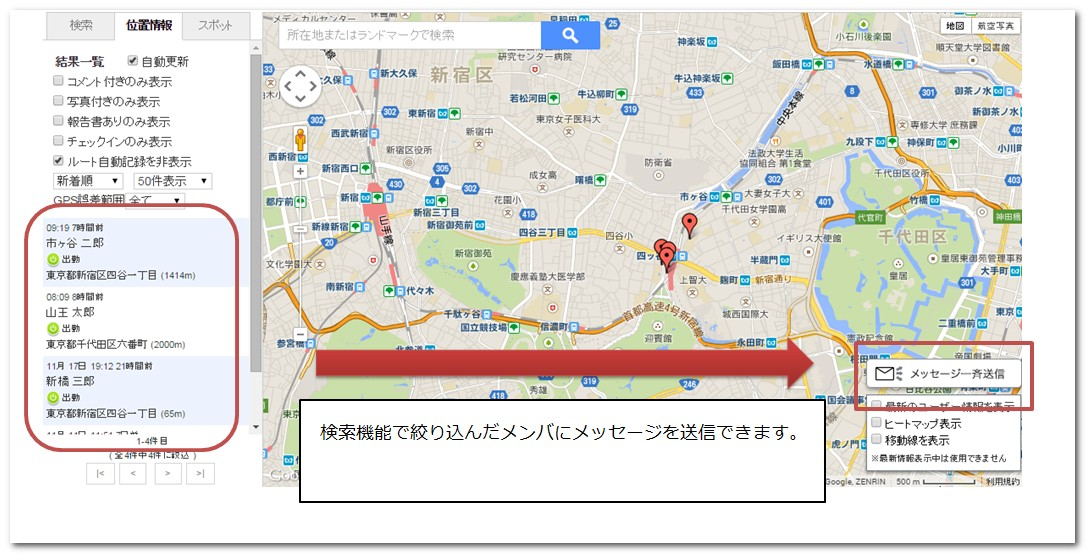
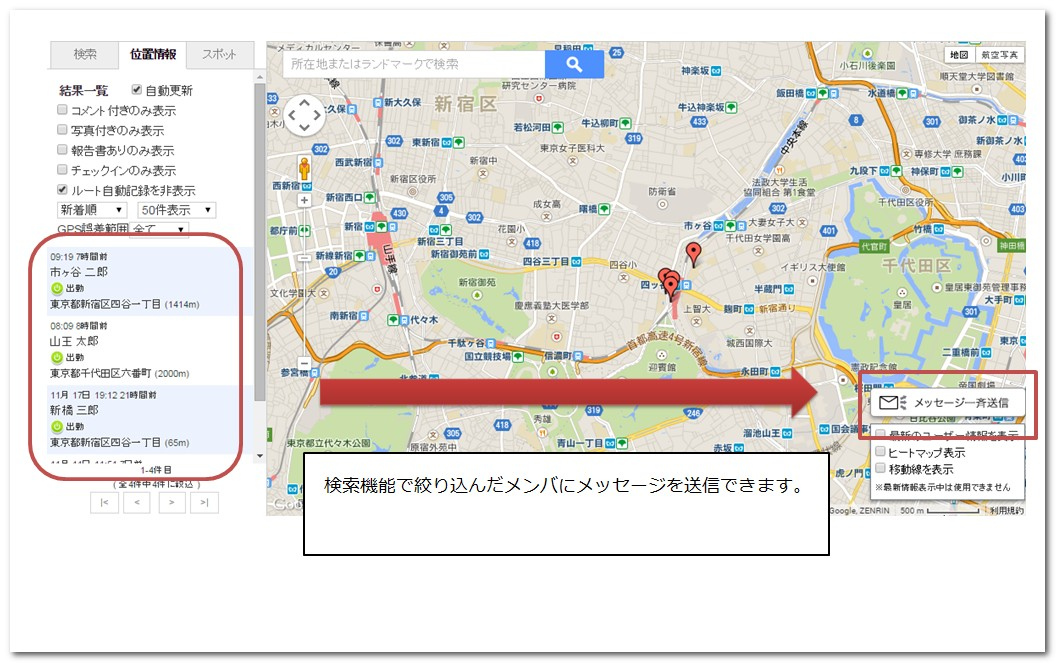
Fixed some issues.

diff --git a/searchindex.js b/searchindex.js
@@ -1,1 +1,1 @@
-Search.setIndex({envversion:42,terms:{"\u53cd\u6620":[4,2],"\u51fa\u6765":2,"\u306b\u304a\u3044\u3066":4,"\u30a2\u30af\u30c6\u30a3\u30d6":0,"\u6761\u4ef6":[4,2],"\u3067\u3057":4,"\u7aef\u672b":[0,2,3],"\u53d7\u4fe1":2,"\u901a\u4fe1":[2,3],"\u4e00\u822c":[2,3],"\u30aa\u30ec\u30f3\u30b8":4,"\u524a\u9664":[4,2,3],"\u3067\u304d":[0,4,2,3],"\u5e0c\u671b":0,"\u6700\u7d42":3,"\u524a\u6e1b":2,"\u73fe\u5834":0,"\u77e2\u5370":2,"\u4e0d\u8db3":3,"\u4f11\u61a9":0,"\u30a4\u30f3\u30b9\u30c8\u30fc\u30eb":2,"\u72b6\u6cc1":3,"\u30aa\u30d5\u30e9\u30a4\u30f3":3,"\u30f6\u6708":3,"\u30e1\u30cb\u30e5\u30fc":[2,3],"\u304a\u3088\u3073":[4,3],"\u5909\u308f\u308a":4,"->":0,"\u30aa\u30d7\u30b7\u30e7\u30f3":4,"\u5e83\u544a":3,"\u30d6\u30e9\u30a6\u30b6":3,"\u89e3\u9664":[4,2],"\u7b87\u6240":3,"\u5909\u308f\u3063":0,"\u5207\u308a\u66ff\u308f\u3089":2,"\u7d4c\u904e":[4,3],"\u30bf\u30d6":[4,2],"\u6700\u65b0":[4,2],"\u8a2a\u554f":4,"new":4,"\u305d\u306e\u4ed6":2,"\u304a\u4f1d\u3048":4,"\u521d\u56de":2,punch:0,"\u30bf\u30b0":[4,2],"\u30de\u30eb\u30c1":[0,2,3],"\u30db\u30fc\u30e0":2,"\u30a2\u30ab\u30a6\u30f3\u30c8":[0,2,3],"\u5f37\u5236":2,"\u30b9\u30dd\u30c3\u30c8\u30a4\u30f3\u30dd\u30fc\u30c8":4,"\u4e00\u62ec":4,"\u30c1\u30a7\u30c3\u30af\u30dc\u30c3\u30af\u30b9\u30fb\u30e9\u30b8\u30aa\u30dc\u30bf\u30f3":2,"\u3067\u3082":[4,3],"\u64ec\u4f3c":2,"\u5411\u4e0a":3,"\u8d85\u3048":4,app:3,"\u30c7\u30b6\u30a4\u30f3":[4,3],"\u3057\u307e\u3063":2,"\u30ed\u30b1\u30fc\u30b7\u30e7\u30f3":2,"\u30de\u30c3\u30d7":2,"\u9001\u4fe1":[4,2,3],"\u30a2\u30cb\u30e1\u30fc\u30b7\u30e7\u30f3":2,"\u30b9\u30dd\u30c3\u30c8":[0,2,3],"\u9023\u7d9a":3,"\u3057\u307e\u3046":[2,3],iphone:3,"\u30ab\u30b9\u30bf\u30de\u30fc\u30b5\u30fc\u30d3\u30b9":4,"\u60c5\u5831":[0,2,3],"\u30c6\u30ad\u30b9\u30c8":2,"\u3060\u3063":2,"\u3059\u308b":[0,4,2,3],"\u306a\u308a":[4,2,3],"\u30c1\u30e5\u30fc\u30cb\u30f3\u30b0":3,"\u843d\u3061\u308b":2,"\u304a\u77e5\u3089\u305b":[4,2],"\u3053\u3068":[0,4],"\u3053\u306e":2,"\u30d5\u30c3\u30bf\u30fc":4,"\u4ed5\u69d8":3,"\u6709\u52b9":2,"\u62bc\u3055":0,"\u4ee5\u4e0b":3,"\u4ee5\u4e0a":3,"\u30a2\u30a4\u30b3\u30f3":2,"\u884c\u308f":2,"\u8d77\u52d5":[2,3],"\u3060\u3051":[0,2],"\u7de8\u96c6":[4,2,3],"\u4e00\u90e8":[4,2,3],"\u30d1\u30d5\u30a9\u30fc\u30de\u30f3\u30b9":3,"\u30ab\u30ca":4,"\u3069\u306e":[0,4],"\u30d4\u30f3":2,"\u30af\u30e9\u30c3\u30b7\u30e5":[2,3],"\u30c9\u30c3\u30c8":2,"\u304f\u3060\u3055\u3044":0,"\u5897\u3084\u3057":2,"\u4e00\u5b9a":[0,4],"\u3059\u3050":2,"\u30d0\u30fc\u30b8\u30e7\u30f3\u30a2\u30c3\u30d7":[2,3],"\u884c\u3046":2,"\u884c\u3044":4,"\u95a2\u9023":2,"\u30d5\u30a3\u30fc\u30eb\u30c9":2,"\u3053\u308c":4,"\u7121\u6599":2,"\u5185\u5bb9":2,csv:4,"\u7d42\u4e86":[0,2],":`":3,"\u62d2\u5426":2,"\u6642\u9593":[0,4,3],"\u4e0b\u3055\u3044":4,"\u30cf\u30a4\u30d5\u30f3":2,"\u8a2d\u5b9a":[0,2,3],"\u610f\u898b":4,"\u81ea\u52d5":[0,4,2,3],"\u30c1\u30a7\u30c3\u30af\u30a4\u30f3":2,"\u901a\u5e38":[0,2],"\u4e88\u5b9a":[2,3],"\u81ea\u793e":[0,4,2,3],"\u30dc\u30c3\u30af\u30b9":2,"\u82f1\u8a9e":2,"\u6d88\u8cbb":0,"20":[4,3],"\u30bf\u30a4\u30e0":2,"\u30b8\u30aa\u30b3\u30fc\u30c7\u30a3\u30f3\u30b0":2,"\u308c\u308b":[4,2,3],"\u70b9\u7dda":3,"\u540c\u671f":[2,3],"\u52d5\u4f5c":0,"\u30d5\u30a3\u30fc\u30c1\u30e3\u30fc":2,"\u5897\u3048":4,"\u6271\u3044":2,googlemaps:[2,3],"\u9032\u884c":[0,2],"\u53c2\u52a0":2,"\u7dcf\u79f0":0,term:3,"\u4e00\u3064":2,"\u66f4\u65b0":[2,3],"\u597d\u304d":0,"\u30ec\u30d9\u30eb":2,"\u767b\u9332":[4,3],"\u4e26\u3073":4,"\u30d5\u30a9\u30c8":3,"\u30e9\u30d9\u30eb":4,"\u4ee5\u964d":3,"\u753b\u9762":[0,4,2,3],ex:0,"\u30c8\u30e9\u30c3\u30ad\u30f3\u30b0":2,"\u30be\u30fc\u30f3":2,"\u3042\u3044\u307e\u3044":4,"\u7def\u5ea6":4,"\u8a73\u7d30":[4,2,3],"\u5b58\u5728":[2,3],"\u30b7\u30e7\u30fc\u30c8\u30ab\u30c3\u30c8":2,"\u4eba\u6570":2,"\u305f\u3081":[4,2],"\u30b7\u30e3\u30f3\u30d1\u30f3":2,"\u30b3\u30fc\u30c9":4,"\u9000\u52e4":0,"\u8a31\u5bb9":4,googlemapsapi:4,"\u53e4\u3044":2,"\u30ab\u30e1\u30e9\u30a2\u30a4\u30b3\u30f3":2,"\u4e92\u63db":3,"\u53ef\u80fd":[0,4,2,3],"\u30b5\u30a4\u30c8":[0,1],nodata:2,"\u30eb\u30fc\u30c8":[0,4,2,3],"1000":2,"\u30d6\u30eb\u30fc":2,"\u52d5\u304b\u3057":2,"\u30dd\u30fc\u30c8":4,"\u30ed\u30b0\u30a2\u30a6\u30c8":2,"\u304a\u5ba2\u69d8":[0,4],"\u78ba\u8a8d":[2,3],"\u30b5\u30dd\u30fc\u30c8":0,"\u4fee\u6b63":[2,3],"\u884c\u52d5":[0,4,3],"\u30b7\u30f3\u30b0\u30eb\u30b3\u30fc\u30c6\u30fc\u30b7\u30e7\u30f3":4,"\u8aad\u307f\u8fbc\u3081":3,"\u7d5e\u308a\u8fbc\u307f":2,gps:[0,2],"\u3044\u308b":[0,4,2,3],"\u6291\u3048":0,"\u30a2\u30a4\u30c6\u30e0":2,"\u305d\u306e\u5f8c":2,ipad:3,"15":4,"\u898b\u308b":4,"\u9593\u9694":[0,2],"\u8a18\u9332":[0,4,2,3],"\u7d50\u3070":0,"\u30a8\u30e9\u30fc":[4,3],"\u30c8\u30c3\u30d7\u30da\u30fc\u30b8":4,"\u5834\u5408":[0,4,2,3],"\u30ea\u30b9\u30c8":[4,2],"\u307e\u3067":[0,4],"\u307e\u3059":[0,4,2,3],"\u307e\u305b":[0,4,3],"\u4e00\u89a7":[2,3],"\u307e\u305f":4,"\u304b\u3089":[4,2,3],"\u307e\u3057":[4,2,3],"\u7279\u5b9a":[0,2],"\u307e\u3068\u3081":4,"\u9078\u629e":[0,4,2,3],"\u8aad\u307f\u8fbc\u307f":[2,3],"\u51fa\u529b":4,"\u6a5f\u80fd":[0,4,2,3],"\u30a2\u30c3\u30d7\u30c7\u30fc\u30c8":3,"\u9867\u5ba2":[0,4,3],"\u5408\u308f\u305b":0,"\u5f53\u65e5":4,"\u30b5\u30fc\u30d0\u30fc":2,url:[2,3],km:2,"\u30a8\u30e9\u30fc\u30e1\u30c3\u30bb\u30fc\u30b8":2,"\u64ae\u5f71":2,"\u30b5\u30fc\u30d0":3,"\u4f01\u696d":[0,2],"\u30ab\u30e1\u30e9":2,"\u3057\u304b":[0,2],"\u4ef6\u6570":4,"\u8ffd\u52a0":[0,4,2,3],"\u5bfe\u8c61":4,"\u5206\u3051":2,"\u30a4\u30f3":4,"\u3082\u3057\u304f\u306f":4,"\u7d0d\u54c1":0,"\u6700\u5927":3,"\u65e5\u6642":4,"\u306a\u3089":[4,2],"\u51e6\u7406":[4,2,3],"\u306a\u308b":2,"\u65b9\u6cd5":[4,2],"\u30ea\u30ea\u30fc\u30b9":2,"\u5206\u304b\u308a":4,"\u5206\u304b\u308b":4,"\u5730\u56f3":[4,2],"\u3055\u3089\u306b":4,"\u672a\u8aad":2,"\u8868\u3059":4,"\u5439\u304d\u51fa\u3057":4,"\u62c5\u5f53":[0,4,2,3],"\u4e0d\u8981":3,"\u7121\u3044":3,"\u30ed\u30b8\u30c3\u30af":2,"\u6c7a\u3081":0,"\u7d50\u679c":[4,2],"\u7121\u3057":2,"\u623b\u308b":2,"\u64cd\u4f5c":4,"\u524d\u56de":3,"\u8ecc\u8de1":0,"\u30ba\u30fc\u30e0":2,"\u5e83\u3052":4,"\u65b0\u898f":3,"\u5f93\u6765":0,"\u7d39\u4ecb":2,"\u7ba1\u7406":[0,1,2,3],"\u30b9\u30bf\u30c3\u30d5":0,"\u65e5\u4ed8":4,"\u30ed\u30b0\u30a4\u30f3":2,"\u7bc4\u56f2":[4,2],"\u30c0\u30a4\u30a2\u30ed\u30b0":2,"\u914d\u616e":4,"\u50ac\u4fc3":2,"\u4f4d\u7f6e":[0,2],"\u3057\u3088":[4,2],"\u904e\u53bb":4,"\u306a\u3069":0,"\u534a\u5f84":2,"\u696d\u52d9":[0,4],"\u306a\u3063":[0,4,2],"\u5206\u5272":4,"\u4e00\u76ee":4,"\u306a\u304f":[0,2],"\u306a\u304a":4,"\u306a\u3044":[0,4,2,3],"\u628a\u63e1":0,"\u540c\u69d8":4,"\u30d5\u30a9\u30eb\u30c0":4,"\u4eca\u56de":[4,3],"\u5931\u6557":2,"\u533a\u5225":4,"\u4fdd\u5b58":2,"\u62bd\u51fa":4,"\u5207\u308a\u66ff\u3048\u308b":2,"\u4ee5\u524d":2,"\u306b\u5bfe\u3057\u3066":2,"\u5207\u308a\u66ff\u3048":2,"\u30ec\u30a4\u30a2\u30a6\u30c8":[4,2,3],"\u3068\u3044\u3046":2,"\u7e2e\u5c3a":3,"\u95b2\u89a7":[2,3],"\u753b\u50cf":2,"500":2,"\u30d1\u30b9\u30ef\u30fc\u30c9":2,"\u30d5\u30a9\u30fc\u30de\u30c3\u30c8":2,applemap:3,"\u4fdd\u6301":2,"\u8981\u671b":4,"\u9077\u79fb":[2,3],"\u554f\u984c":[4,2,3],"\u6a29\u9650":[2,3],"\u6700\u9069":2,"\u30bf\u30c3\u30d7":2,"\u4f4f\u6240":[4,2,3],"\u5236\u9650":3,"\u691c\u7d22":[4,2],"\u5165\u529b":[4,2,3],"\u30e9\u30a4\u30d6\u30e9\u30ea":3,"\u540c\u3058":[2,3],"\u5199\u771f":[4,2,3],"\u51fa\u52e4":[0,3],"\u5fc5\u8981":[4,2],"\u30aa\u30f3":[0,2],googlemapssdk:3,"\u53d6\u5f97":[4,2],"\u30bf\u30a4\u30df\u30f3\u30b0":[0,3],"\u5c65\u6b74":[2,3],"\u52b9\u304b":3,"\u30aa\u30d5":2,"\u5951\u7d04":4,"\u30a2\u30d7\u30ea":[0,2],"\u4e0d\u5177\u5408":[2,3],"\u3069\u3046":0,"\u5b89\u5b9a":3,"\u30e2\u30fc\u30c9":[0,2,3],ios:[1,2],"\u306b\u3088\u308a":4,"000":4,"\u7d4c\u7531":3,"\u5834\u6240":2,"\u7167\u6e96":2,"\u201d&\u201d":3,"\u305d\u3057\u3066":2,"\u30b9\u30bf\u30a4\u30eb":2,"\u7d10\u4ed8":2,"\u30b0\u30eb\u30fc\u30d7":[4,2,3],"\u3084\u3059\u304f":4,"\u30b1\u30fc\u30b9":4,"\u3084\u3059\u3044":4,"\u8868\u793a":[0,4,2,3],"\u30b9\u30c6\u30fc\u30bf\u30b9":[0,4,2,3],"\u30ab\u30e9\u30fc":4,"\u5229\u7528":[4,3],"\u30e9\u30b8\u30aa\u30dc\u30bf\u30f3\u30d5\u30a3\u30fc\u30eb\u30c9":2,"\u6271\u3048":4,"\u8efd\u5fae":[4,2],"\u3067\u304d\u308b":[0,4,2,3],web:2,"\u4f5c\u6210":[4,2,3],"\u958b\u59cb":0,"\u30bd\u30fc\u30c8":[4,3],"\u3067\u3059":[0,4],"\u30ad\u30fc":2,"\u521d\u671f":[0,2],"\u7d4c\u5ea6":4,"\u542b\u3081":2,"\u307e\u305f\u306f":2,"\u9001\u3089":2,"\u30c7\u30d0\u30a4\u30b9\u30c8\u30fc\u30af\u30f3":3,"\u30d0\u30ca\u30fc":4,"\u30d0\u30c3\u30b8":2,"\u5dee\u3057\u66ff\u3048":2,"\u30d0\u30c3\u30af":2,"\u6b63\u3057\u304f":[4,2,3],"\u4ee5\u5916":3,"\u30c7\u30d5\u30a9\u30eb\u30c8":2,"\u306a\u304b\u3063":[4,2],"\u6975\u529b":4,"\u30b7\u30b9\u30c6\u30e0":4,"\u904b\u55b6":4,"\u4f7f\u7528":[2,3],"\u5e83\u304c\u308b":4,"\u5927\u304d\u304f":2,"\u8a73\u3057\u304f":4,"\u30d0\u30c3\u30af\u30b0\u30e9\u30a6\u30f3\u30c9":3,"\u30dc\u30bf\u30f3":[0,2],"\u542b\u307e":2,"\u6587\u5b57\u6570":2,"\u5b8c\u4e86":2,"\u30d0\u30b0":4,"\u55b6\u696d":4,"\u3042\u308a":[4,3],"\u3042\u308b":[2,3],"\u6b63\u78ba":4,"\u6d88\u3048":2,"\u30b5\u30fc\u30d3\u30b9":2,"\u6587\u8a00":[0,2],"\u30e1\u30f3\u30d0\u30fc":[0,4,2,3],"\u307b\u307c":3,"\u6319\u52d5":[4,2],"\u9055\u3063":2,"\u30c1\u30a7\u30c3\u30af":[4,2],"\u30e6\u30fc\u30b6\u30fc":[0,4,2,3],"\u6b63\u3057\u3044":2,"\u5e30\u3063":4,plus:3,"\u70b9\u691c":0,"\u30e1\u30e2\u30ea":3,"\u6570\u5b57":2,"\u8abf\u6574":[2,3],"\u898b\u308c\u308b":2,"\u3088\u308a":[4,2,3],"\u5831\u544a":[0,2,3],"\u554f\u3044\u5408\u308f\u305b":[0,4],"\u9805\u76ee":[4,3],"\u8907\u6570":[0,4,2],"\u7a2e\u5225":[4,3],"\u30d0\u30fc\u30b8\u30e7\u30f3":[2,3],"\u53ce\u307e\u308b":4,"\u30d5\u30ea\u30fc\u30ba":2,"\u901f\u5ea6":4,"\u62bc\u4e0b":2,"\u30a2\u30e9\u30fc\u30c8":3,"\u73fe\u5728":[4,2,3],"\u5165\u308c":4,"\u30e1\u30f3\u30d0":4,"\u79fb\u52d5":[0,4,2],ui:3,"\u8aad\u8fbc":2,"\u30e1\u30c3\u30bb\u30fc\u30b8":[4,2],"\u5916\u3057":4,"\u8abf\u3079\u308b":4,"\u5165\u3063":4,"\u3054\u3068":4,"\u306b\u95a2\u3057\u3066":4,"\u30de\u30fc\u30af":2,"\u5f0a\u793e":[0,4],"\u53c2\u7167":[4,2,3],"\u7570\u306a\u308b":2,"\u7570\u306a\u308a":0,"\u4f1a\u793e":4,"\u30cd\u30c3\u30c8\u30ef\u30fc\u30af":2,"\u306e\u307f":[0,4,2],"\u544a\u77e5":4,"\u9078\u629e\u80a2":4,"\u30c7\u30fc\u30bf":[2,3],"\u3044\u305f\u3060\u3044":4,"\u4e0a\u9650":2,"\u30d5\u30a9\u30fc\u30ab\u30b9":2,"\u65b0\u3057\u3044":2,"\u304f\u308b":4,"\u3088\u3046":[0,4,2,3],"\u30aa\u30fc\u30d0\u30fc":2,"\u30de\u30fc\u30ab\u30fc":2},objtypes:{},objnames:{},filenames:["glossary","index","android","ios","web"],titles:["\u7528\u8a9e\u96c6","\u30ea\u30ea\u30fc\u30b9\u30ce\u30fc\u30c8","Android","iOS","\u7ba1\u7406\u30b5\u30a4\u30c8"],objects:{},titleterms:{"\u4e88\u5b9a":4,"09":3,"\u30ce\u30fc\u30c8":1,"\u6539\u5584":[2,3],"\u5168\u822c":4,"\u5831\u544a":4,"24":4,"27":4,ver:[4,2,3],"\u4e00\u89a7":4,"\u7ba1\u7406":4,"\u901a\u77e5":4,"08":2,"\u4fee\u6b63":4,"\u5909\u66f4":[4,2,3],"\u30b9\u30dd\u30c3\u30c8":4,"\u95b2\u89a7":4,"2014":[4,2,3],android:2,"\u4e0d\u5177\u5408":4,"\u60c5\u5831":4,"\u30ea\u30ea\u30fc\u30b9":[1,4],"\u30d5\u30a9\u30fc\u30de\u30c3\u30c8":4,"\u4f4d\u7f6e":4,ios:3,"\u516c\u958b":[4,2,3],"01":3,"\u8a2d\u5b9a":4,"11":[4,2],"10":[4,2,3],"13":4,"12":[4,2],"\u7528\u8a9e":0,"14":[4,2,3],"19":[4,2],"\u30c0\u30a6\u30f3\u30ed\u30fc\u30c9":4,"\uff09(":4,"\u30b5\u30a4\u30c8":4}})
+Search.setIndex({envversion:42,terms:{"\u53cd\u6620":[4,2],"\u51fa\u6765":2,"\u306b\u304a\u3044\u3066":4,"\u30a2\u30af\u30c6\u30a3\u30d6":0,"\u6761\u4ef6":[4,2],"\u3067\u3057":4,"\u7aef\u672b":[0,2,3],"\u53d7\u4fe1":2,"\u901a\u4fe1":[2,3],"\u4e00\u822c":[2,3],"\u30aa\u30ec\u30f3\u30b8":4,"\u524a\u9664":[4,2,3],"\u3067\u304d":[0,4,2,3],"\u5e0c\u671b":0,"\u6700\u7d42":3,"\u524a\u6e1b":2,"\u73fe\u5834":0,"\u77e2\u5370":2,"\u4e0d\u8db3":3,"\u4f11\u61a9":0,"\u30a4\u30f3\u30b9\u30c8\u30fc\u30eb":2,"\u52d5\u4f5c":0,"\u30aa\u30d5\u30e9\u30a4\u30f3":3,"\u30f6\u6708":3,"\u30e1\u30cb\u30e5\u30fc":[2,3],"\u304a\u3088\u3073":[4,3],"\u5909\u308f\u308a":4,"->":0,"\u30aa\u30d7\u30b7\u30e7\u30f3":4,"\u5e83\u544a":3,"\u30d6\u30e9\u30a6\u30b6":3,"\u89e3\u9664":[4,2],"\u7b87\u6240":3,"\u5909\u308f\u3063":0,"\u5207\u308a\u66ff\u308f\u3089":2,"\u7d4c\u904e":[4,3],"\u30bf\u30d6":[4,2],"\u6700\u65b0":[0,4,2],"\u8a2a\u554f":[0,4],"new":4,"\u305d\u306e\u4ed6":2,"\u304a\u4f1d\u3048":4,"\u521d\u56de":2,punch:0,"\u30bf\u30b0":[4,2],"\u30de\u30eb\u30c1":[0,2,3],"\u30db\u30fc\u30e0":2,"\u30a2\u30ab\u30a6\u30f3\u30c8":[0,2,3],"\u5f37\u5236":2,"\u30b9\u30dd\u30c3\u30c8\u30a4\u30f3\u30dd\u30fc\u30c8":4,"\u4e00\u62ec":4,"\u30c1\u30a7\u30c3\u30af\u30dc\u30c3\u30af\u30b9\u30fb\u30e9\u30b8\u30aa\u30dc\u30bf\u30f3":2,"\u3067\u3082":[4,3],"\u64ec\u4f3c":2,"\u5411\u4e0a":3,"\u8d85\u3048":4,app:3,"\u30c7\u30b6\u30a4\u30f3":[4,3],"\u3057\u307e\u3063":2,"\u30ed\u30b1\u30fc\u30b7\u30e7\u30f3":2,"\u30de\u30c3\u30d7":2,"\u9001\u4fe1":[4,2,3],"\u30a2\u30cb\u30e1\u30fc\u30b7\u30e7\u30f3":2,"\u30b9\u30dd\u30c3\u30c8":[0,2,3],"\u9023\u7d9a":3,"\u3057\u307e\u3046":[2,3],iphone:3,"\u30ab\u30b9\u30bf\u30de\u30fc\u30b5\u30fc\u30d3\u30b9":4,"\u60c5\u5831":[0,2,3],"\u30c6\u30ad\u30b9\u30c8":2,"\u3060\u3063":2,"\u3059\u308b":[0,4,2,3],"\u306a\u308a":[4,2,3],"\u30c1\u30e5\u30fc\u30cb\u30f3\u30b0":3,"\u843d\u3061\u308b":2,"\u304a\u77e5\u3089\u305b":[4,2],"\u3053\u3068":[0,4],"\u3053\u306e":2,"\u30d5\u30c3\u30bf\u30fc":4,"\u4ed5\u69d8":3,"\u6709\u52b9":2,"\u62bc\u3055":0,"\u4ee5\u4e0b":3,"\u4ee5\u4e0a":3,"\u30a2\u30a4\u30b3\u30f3":2,"\u884c\u308f":2,"\u8d77\u52d5":[2,3],"\u3060\u3051":[0,2],"\u7de8\u96c6":[4,2,3],"\u4e00\u90e8":[4,2,3],"\u30d1\u30d5\u30a9\u30fc\u30de\u30f3\u30b9":3,"\u30ab\u30ca":4,"\u3069\u306e":[0,4],"\u30d4\u30f3":2,"\u30af\u30e9\u30c3\u30b7\u30e5":[2,3],"\u30c9\u30c3\u30c8":2,"\uff11\u3064":0,"\u304f\u3060\u3055\u3044":0,"\u5897\u3084\u3057":2,"\u4e00\u5b9a":[0,4],"\u3059\u3050":2,"\u30d0\u30fc\u30b8\u30e7\u30f3\u30a2\u30c3\u30d7":[2,3],"\u884c\u3046":2,"\u884c\u3044":4,"\u95a2\u9023":2,"\u95a2\u9023\u4ed8\u3051\u308b":0,"\u30d5\u30a3\u30fc\u30eb\u30c9":2,"\u3053\u308c":4,"\u7121\u6599":2,"\u5185\u5bb9":2,csv:4,"\u7d42\u4e86":[0,2],"\u9023\u7d61":0,"\u62d2\u5426":2,"\u6642\u9593":[0,4,3],"\u4e0b\u3055\u3044":4,"\u30cf\u30a4\u30d5\u30f3":2,"\u8a2d\u5b9a":[0,2,3],"\u610f\u898b":4,"\u81ea\u52d5":[0,4,2,3],"\u30c1\u30a7\u30c3\u30af\u30a4\u30f3":2,"\u901a\u5e38":[0,2],"\u4e88\u5b9a":[2,3],"\u81ea\u793e":[0,4,2,3],"\u30dc\u30c3\u30af\u30b9":2,"\u82f1\u8a9e":2,"\u6d88\u8cbb":0,"20":[4,3],"\u30bf\u30a4\u30e0":2,"\u30b8\u30aa\u30b3\u30fc\u30c7\u30a3\u30f3\u30b0":2,"\u308c\u308b":[4,2,3],"\u70b9\u7dda":3,"\u540c\u671f":[2,3],"\u72b6\u6cc1":3,"\u30d5\u30a3\u30fc\u30c1\u30e3\u30fc":2,"\u5897\u3048":4,"\u6271\u3044":2,googlemaps:[2,3],"\u9032\u884c":[0,2],"\u53c2\u52a0":2,"\u7dcf\u79f0":0,"\u4e00\u3064":2,"\u66f4\u65b0":[2,3],"\u597d\u304d":0,"\u30ec\u30d9\u30eb":2,"\u767b\u9332":[4,3],"\u4e26\u3073":4,"\u30d5\u30a9\u30c8":3,"\u30e9\u30d9\u30eb":4,"\u4ee5\u964d":3,"\u753b\u9762":[0,4,2,3],"\u30c8\u30e9\u30c3\u30ad\u30f3\u30b0":2,"\u30be\u30fc\u30f3":2,"\u3042\u3044\u307e\u3044":4,"\u7def\u5ea6":4,"\u8a73\u7d30":[4,2,3],"\u5b58\u5728":[2,3],"\u30b7\u30e7\u30fc\u30c8\u30ab\u30c3\u30c8":2,"\u4eba\u6570":2,"\u305f\u3081":[4,2],"\u30b7\u30e3\u30f3\u30d1\u30f3":2,"\u30b3\u30fc\u30c9":4,"\u9000\u52e4":0,"\u8a31\u5bb9":4,googlemapsapi:4,"\u53e4\u3044":2,"\u30ab\u30e1\u30e9\u30a2\u30a4\u30b3\u30f3":2,"\u4e92\u63db":3,"\u53ef\u80fd":[0,4,2,3],"\u30b5\u30a4\u30c8":[0,1],nodata:2,"\u30eb\u30fc\u30c8":[0,4,2,3],"1000":2,"\u30d6\u30eb\u30fc":2,"\u52d5\u304b\u3057":2,"\u30dd\u30fc\u30c8":4,"\u30ed\u30b0\u30a2\u30a6\u30c8":2,"\u304a\u5ba2\u69d8":[0,4],"\u78ba\u8a8d":[2,3],"\u30b5\u30dd\u30fc\u30c8":0,"\u4fee\u6b63":[2,3],"\u884c\u52d5":[0,4,3],"\u30b7\u30f3\u30b0\u30eb\u30b3\u30fc\u30c6\u30fc\u30b7\u30e7\u30f3":4,"\u8aad\u307f\u8fbc\u3081":3,"\u7d5e\u308a\u8fbc\u307f":2,gps:[0,2],"\u3044\u308b":[0,4,2,3],"\u6291\u3048":0,"\u30a2\u30a4\u30c6\u30e0":2,"\u305d\u306e\u5f8c":2,ipad:3,"15":4,"\u898b\u308b":4,"\u9593\u9694":[0,2],"\u8a18\u9332":[0,4,2,3],"\u7d50\u3070":0,"\u30a8\u30e9\u30fc":[4,3],"\u30c8\u30c3\u30d7\u30da\u30fc\u30b8":4,"\u30ab\u30b9\u30bf\u30de\u30fc\u30b5\u30dd\u30fc\u30c8":0,"\u30ea\u30b9\u30c8":[4,2],"\u307e\u3067":[0,4],"\u307e\u3059":[0,4,2,3],"\u307e\u305b":[0,4,3],"\u4e00\u89a7":[2,3],"\u307e\u305f":4,"\u304b\u3089":[0,4,2,3],"\u65b0\u898f":[0,3],"\u7279\u5b9a":[0,2],"\u307e\u3068\u3081":4,"\u9078\u629e":[0,4,2,3],"\u8aad\u307f\u8fbc\u307f":[2,3],"\u51fa\u529b":4,"\u6a5f\u80fd":[0,4,2,3],"\u9867\u5ba2":[0,4,3],"\u5408\u308f\u305b":0,"\u5f53\u65e5":4,"\u30b5\u30fc\u30d0\u30fc":2,url:[2,3],km:2,"\u30a8\u30e9\u30fc\u30e1\u30c3\u30bb\u30fc\u30b8":2,"\u64ae\u5f71":2,"\u30aa\u30fc\u30d0\u30fc":2,"\u4f01\u696d":[0,2],"\u30ab\u30e1\u30e9":2,"\u3057\u304b":[0,2],"\u4ef6\u6570":4,"\u8ffd\u52a0":[0,4,2,3],"\u5bfe\u8c61":4,"\u5206\u3051":2,"\u30a4\u30f3":4,"\u3082\u3057\u304f\u306f":4,"\u7d0d\u54c1":0,"\u6700\u5927":3,"\u65e5\u6642":4,"\u306a\u308c":0,"\u306a\u3089":[4,2],"\u51e6\u7406":[4,2,3],"\u306a\u308b":2,"\u5225\u9014":0,"\u65b9\u6cd5":[4,2],"\u30ea\u30ea\u30fc\u30b9":2,"\u5206\u304b\u308a":4,"\u5206\u304b\u308b":4,"\u5730\u56f3":[0,4,2],"\u3055\u3089\u306b":4,"\u672a\u8aad":2,"\u8868\u3059":4,"\u5439\u304d\u51fa\u3057":[0,4],"\u62c5\u5f53":[0,4,2,3],"\u4e0d\u8981":3,"\u7121\u3044":3,"\u30ed\u30b8\u30c3\u30af":2,"\u6c7a\u3081":0,"\u7d50\u679c":[4,2],"\u7121\u3057":2,"\u623b\u308b":2,"\u64cd\u4f5c":4,"\u524d\u56de":3,"\u8ecc\u8de1":0,"\u30ba\u30fc\u30e0":2,"\u5e83\u3052":4,"\u30a2\u30c3\u30d7\u30c7\u30fc\u30c8":3,"\u5f93\u6765":0,"\u7d39\u4ecb":2,"\u8efd\u5fae":[4,2],"\u7ba1\u7406":[0,1,2,3],"\u30b9\u30bf\u30c3\u30d5":0,"\u65e5\u4ed8":4,"\u30ed\u30b0\u30a4\u30f3":2,"\u7bc4\u56f2":[4,2],"\u30c0\u30a4\u30a2\u30ed\u30b0":2,"\u4f4d\u7f6e":[0,2],"\u50ac\u4fc3":2,"\u914d\u616e":4,"\u3057\u3088":[4,2],"\u904e\u53bb":4,"\u306a\u3069":0,"\u534a\u5f84":2,"\u306b\u5bfe\u3057\u3066":2,"\u306a\u3063":[0,4,2],"\u5206\u5272":4,"\u4e00\u76ee":4,"\u306a\u304f":[0,2],"\u306a\u304a":4,"\u306a\u3044":[0,4,2,3],"\u628a\u63e1":0,"\u540c\u69d8":4,"\u30d5\u30a9\u30eb\u30c0":4,"\u4eca\u56de":[4,3],"\u5931\u6557":2,"\u533a\u5225":4,"\u4fdd\u5b58":2,"\u62bd\u51fa":4,"\u5207\u308a\u66ff\u3048\u308b":2,"\u4ee5\u524d":2,"\u696d\u52d9":[0,4],"\u5207\u308a\u66ff\u3048":2,"\u30ec\u30a4\u30a2\u30a6\u30c8":[4,2,3],"\u3068\u3044\u3046":2,"\u7e2e\u5c3a":3,"\u95b2\u89a7":[2,3],"\u753b\u50cf":2,"500":2,"\u30d1\u30b9\u30ef\u30fc\u30c9":2,"\u30d5\u30a9\u30fc\u30de\u30c3\u30c8":2,applemap:3,"\u4fdd\u6301":2,"\u8981\u671b":4,"\u9077\u79fb":[2,3],"\u554f\u984c":[4,2,3],"\u6a29\u9650":[2,3],"\u6700\u9069":2,"\u30bf\u30c3\u30d7":2,"\u4f4f\u6240":[4,2,3],"\u5236\u9650":3,"\u691c\u7d22":[4,2],"\u5165\u529b":[4,2,3],"\u30e9\u30a4\u30d6\u30e9\u30ea":3,"\u540c\u3058":[2,3],"\u5834\u5408":[0,4,2,3],"\u51fa\u52e4":[0,3],"\u5fc5\u8981":[4,2],"\u30aa\u30f3":[0,2],googlemapssdk:3,"\u53d6\u5f97":[4,2],"\u30bf\u30a4\u30df\u30f3\u30b0":[0,3],"\u5c65\u6b74":[2,3],"\u52b9\u304b":3,"\u30aa\u30d5":2,"\u5951\u7d04":4,"\u30a2\u30d7\u30ea":[0,2],"\u4e0d\u5177\u5408":[2,3],"\u3069\u3046":0,"\u5b89\u5b9a":3,"\u30e2\u30fc\u30c9":[0,2,3],ios:[1,2],"\u306b\u3088\u308a":4,"000":4,"\u7d4c\u7531":3,"\u5834\u6240":2,"\u7167\u6e96":2,"\u201d&\u201d":3,"\u305d\u3057\u3066":2,"\u30b9\u30bf\u30a4\u30eb":2,"\u7d10\u4ed8":2,"\u30b0\u30eb\u30fc\u30d7":[4,2,3],"\u3084\u3059\u304f":4,"\u30b1\u30fc\u30b9":4,"\u3084\u3059\u3044":4,"\u8868\u793a":[0,4,2,3],"\u30b9\u30c6\u30fc\u30bf\u30b9":[0,4,2,3],"\u30ab\u30e9\u30fc":4,"\u5229\u7528":[0,4,3],"\u30e9\u30b8\u30aa\u30dc\u30bf\u30f3\u30d5\u30a3\u30fc\u30eb\u30c9":2,"\u6271\u3048":4,"\u307e\u3057":[4,2,3],"\u3067\u304d\u308b":[0,4,2,3],web:2,"\u4f5c\u6210":[0,4,2,3],"\u958b\u59cb":0,"\u30bd\u30fc\u30c8":[4,3],"\u3067\u3059":[0,4],"\u30ad\u30fc":2,"\u521d\u671f":[0,2],"\u7d4c\u5ea6":4,"\u542b\u3081":2,"\u307e\u305f\u306f":2,"\u30cd\u30c3\u30c8\u30ef\u30fc\u30af":2,"\u9001\u3089":2,"\u30c7\u30d0\u30a4\u30b9\u30c8\u30fc\u30af\u30f3":3,"\u30d0\u30ca\u30fc":4,"\u30d0\u30c3\u30b8":2,"\u5dee\u3057\u66ff\u3048":2,"\u30d0\u30c3\u30af":2,"\u6b63\u3057\u304f":[4,2,3],"\u4ee5\u5916":3,"\u30c7\u30d5\u30a9\u30eb\u30c8":2,"\u306a\u304b\u3063":[4,2],"\u6975\u529b":4,"\u30b7\u30b9\u30c6\u30e0":4,"\u904b\u55b6":4,"\u4f7f\u7528":[2,3],"\u5e83\u304c\u308b":4,"\u5927\u304d\u304f":2,"\u8a73\u3057\u304f":4,"\u30d0\u30c3\u30af\u30b0\u30e9\u30a6\u30f3\u30c9":3,"\u30dc\u30bf\u30f3":[0,2],"\u542b\u307e":2,"\u6587\u5b57\u6570":2,"\u5b8c\u4e86":2,"\u30d0\u30b0":4,"\u55b6\u696d":[0,4],"\u3042\u308a":[4,3],"\u3042\u308b":[2,3],"\u6b63\u78ba":4,"\u6d88\u3048":2,"\u30b5\u30fc\u30d3\u30b9":2,"\u6587\u8a00":[0,2],"\u30e1\u30f3\u30d0\u30fc":[0,4,2,3],"\u5168\u54e1":0,"\u6319\u52d5":[4,2],"\u9055\u3063":2,"\u30c1\u30a7\u30c3\u30af":[4,2],"\u30e6\u30fc\u30b6\u30fc":[0,4,2,3],"\u6b63\u3057\u3044":2,"\u5e30\u3063":4,plus:3,"\u70b9\u691c":0,"\u30e1\u30e2\u30ea":3,"\u6570\u5b57":2,"\u30d5\u30a9\u30fc\u30ab\u30b9":2,"\u8abf\u6574":[2,3],"\u898b\u308c\u308b":2,"\u3088\u308a":[4,2,3],"\u5831\u544a":[0,2,3],"\u554f\u3044\u5408\u308f\u305b":[0,4],"\u9805\u76ee":[4,3],"\u8907\u6570":[0,4,2],"\u7a2e\u5225":[0,4,3],"\u30d0\u30fc\u30b8\u30e7\u30f3":[2,3],"\u53ce\u307e\u308b":4,"\u30d5\u30ea\u30fc\u30ba":2,"\u901f\u5ea6":4,"\u62bc\u4e0b":2,"\u30a2\u30e9\u30fc\u30c8":3,"\u73fe\u5728":[4,2,3],"\u5b9a\u671f":0,"\u5165\u308c":4,"\u30e1\u30f3\u30d0":4,"\u79fb\u52d5":[0,4,2],ui:3,"\u8aad\u8fbc":2,"\u30e1\u30c3\u30bb\u30fc\u30b8":[4,2],"\u5916\u3057":4,"\u8abf\u3079\u308b":4,"\u5165\u3063":4,"---":0,"\u3054\u3068":4,"\u306b\u95a2\u3057\u3066":4,"\u30de\u30fc\u30af":2,"\u5f0a\u793e":[0,4],"\u53c2\u7167":[4,2,3],"\u7570\u306a\u308b":2,"\u7570\u306a\u308a":0,"\u4f1a\u793e":4,"\u5199\u771f":[4,2,3],"\u306e\u307f":[0,4,2],"\u544a\u77e5":4,"\u9078\u629e\u80a2":4,"\u30c7\u30fc\u30bf":[2,3],"\u3044\u305f\u3060\u3044":4,"\u4e0a\u9650":2,"\u307b\u307c":3,"\u65b0\u3057\u3044":2,"\u304f\u308b":4,"\u3088\u3046":[0,4,2,3],"\u30b5\u30fc\u30d0":3,"\u5b9a\u7fa9":0,"\u30de\u30fc\u30ab\u30fc":2},objtypes:{},objnames:{},filenames:["glossary","index","android","ios","web"],titles:["\u7528\u8a9e\u96c6","\u30ea\u30ea\u30fc\u30b9\u30ce\u30fc\u30c8","Android","iOS","\u7ba1\u7406\u30b5\u30a4\u30c8"],objects:{},titleterms:{"\u4e88\u5b9a":4,"09":3,"\u30ce\u30fc\u30c8":1,"\u6539\u5584":[2,3],"\u5168\u822c":4,"\u5831\u544a":4,"24":4,"27":4,ver:[4,2,3],"\u4e00\u89a7":4,"\u7ba1\u7406":4,"\u901a\u77e5":4,"08":2,"\u4fee\u6b63":4,"\u5909\u66f4":[4,2,3],"\u30b9\u30dd\u30c3\u30c8":4,"\u95b2\u89a7":4,"2014":[4,2,3],android:2,"\u4e0d\u5177\u5408":4,"\u60c5\u5831":4,"\u30ea\u30ea\u30fc\u30b9":[1,4],"\u30d5\u30a9\u30fc\u30de\u30c3\u30c8":4,"\u4f4d\u7f6e":4,ios:3,"\u516c\u958b":[4,2,3],"01":3,"\u8a2d\u5b9a":4,"11":[4,2],"10":[4,2,3],"13":4,"12":[4,2],"\u7528\u8a9e":0,"14":[4,2,3],"19":[4,2],"\u30c0\u30a6\u30f3\u30ed\u30fc\u30c9":4,"\uff09(":4,"\u30b5\u30a4\u30c8":4}})

diff --git a/web.html b/web.html
@@ -30,8 +30,7 @@
     <script type="text/javascript" src="_static/release-note.js"></script>
     <link rel="top" title="release-note 1.0 ドキュメント" href="index.html" />
     <link rel="next" title="iOS" href="ios.html" />
-    <link rel="prev" title="リリースノート" href="index.html" />
-    <meta name="viewport" content="width=device-width; initial-scale=1.0">
+    <link rel="prev" title="リリースノート" href="index.html" /> 
   </head>
   <body>
     <div class="related">
@@ -74,7 +73,7 @@
 <div class="line"><br /></div>
 </div>
 <ul class="simple">
-<li>最新情報時の吹き出しに経過時間を表すカラーラベルを追加します。</li>
+<li><a class="reference internal" href="glossary.html#term-8"><em class="xref std std-term">ユーザーの最新情報表示</em></a> 時の吹き出しに経過時間を表すカラーラベルを追加します。</li>
 </ul>
 <div class="figure">
 <a class="reference internal image-reference" href="_images/ver.2.7.12_1.jpg"><img alt="最新情報表示時の吹き出しのデザインについて" src="_images/ver.2.7.12_1.jpg" style="width: 752.8px; height: 488.0px;" /></a>
@@ -87,7 +86,7 @@
 <li>位置情報画面で抽出した複数のメンバにメッセージが送信できるようになります。</li>
 </ul>
 <div class="figure">
-<a class="reference internal image-reference" href="_images/ver.2.7.12_2.jpg"><img alt="メッセージの複数メンバ送信機能について" src="_images/ver.2.7.12_2.jpg" style="width: 868.8px; height: 443.2px;" /></a>
+<a class="reference internal image-reference" href="_images/ver.2.7.12_2.jpg"><img alt="メッセージの複数メンバ送信機能について" src="_images/ver.2.7.12_2.jpg" style="width: 844.8px; height: 530.4px;" /></a>
 </div>
 <div class="line-block">
 <div class="line"><br /></div>
@@ -100,7 +99,7 @@
 <li>スポット詳細のデザインを変更します。</li>
 </ul>
 <div class="figure">
-<a class="reference internal image-reference" href="_images/ver.2.7.12_3.jpg"><img alt="スポット詳細のデザインについて" src="_images/ver.2.7.12_3.jpg" style="width: 973.6px; height: 656.0px;" /></a>
+<a class="reference internal image-reference" href="_images/ver.2.7.12_3.jpg"><img alt="スポット詳細のデザインについて" src="_images/ver.2.7.12_3.jpg" style="width: 870.4px; height: 523.2px;" /></a>
 </div>
 <dl class="docutils">
 <dt>設定項目が増えたためレイアウトを変更します。</dt>
@@ -199,7 +198,7 @@
 <div class="section" id="id12">
 <h4>報告閲覧<a class="headerlink" href="#id12" title="このヘッドラインへのパーマリンク">¶</a></h4>
 <ul class="simple">
-<li>検索条件のステータス名・行動種別名の選択肢リストを、グループごとに区別せずまとめてリスト表示するように変わりました。</li>
+<li>検索条件の <a class="reference internal" href="glossary.html#term-1"><em class="xref std std-term">ステータス</em></a> 名・ <a class="reference internal" href="glossary.html#term-9"><em class="xref std std-term">行動種別</em></a> 名の選択肢リストを、グループごとに区別せずまとめてリスト表示するように変わりました。</li>
 <li>検索条件の報告者の選択肢にユーザーコードが表示されるようになりました。</li>
 </ul>
 </div>
@@ -238,13 +237,13 @@
 <div class="section" id="id19">
 <h4>位置情報<a class="headerlink" href="#id19" title="このヘッドラインへのパーマリンク">¶</a></h4>
 <ul class="simple">
-<li>位置情報画面でメンバーを選択した際に表示される吹き出し、およびメンバー一覧に表示されている現在のステータスを見やすいデザインに変更しました。</li>
-<li>位置情報画面で各メンバーの最新情報のみを表示した場合、最新情報が <a class="reference internal" href="glossary.html#term-"><em class="xref std std-term">ルート自動記録</em></a> <a class="footnote-reference" href="#id22" id="id20">[2]</a> でも各メンバーの現在のステータスが表示されるようになりました。<a class="footnote-reference" href="#id23" id="id21">[3]</a></li>
+<li>位置情報画面でメンバーを選択した際に表示される吹き出し、およびメンバー一覧に表示されている現在の <a class="reference internal" href="glossary.html#term-1"><em class="xref std std-term">ステータス</em></a> を見やすいデザインに変更しました。</li>
+<li>位置情報画面で各メンバーの最新情報のみを表示した場合、最新情報が <a class="reference internal" href="glossary.html#term-"><em class="xref std std-term">ルート自動記録</em></a> <a class="footnote-reference" href="#id22" id="id20">[2]</a> でも各メンバーの現在の <a class="reference internal" href="glossary.html#term-1"><em class="xref std std-term">ステータス</em></a> が表示されるようになりました。<a class="footnote-reference" href="#id23" id="id21">[3]</a></li>
 </ul>
 <table class="docutils footnote" frame="void" id="id22" rules="none">
 <colgroup><col class="label" /><col /></colgroup>
 <tbody valign="top">
-<tr><td class="label"><a class="fn-backref" href="#id20">[2]</a></td><td><em class="xref std std-term">ルート自動記録機能</em> のご利用にはオプション契約が必要となります。詳しくは担当営業、もしくは弊社カスタマーサービスまでお問い合わせ下さい。</td></tr>
+<tr><td class="label"><a class="fn-backref" href="#id20">[2]</a></td><td><a class="reference internal" href="glossary.html#term-"><em class="xref std std-term">ルート自動記録</em></a> 機能のご利用にはオプション契約が必要となります。詳しくは担当営業、もしくは弊社カスタマーサービスまでお問い合わせ下さい。</td></tr>
 </tbody>
 </table>
 <table class="docutils footnote" frame="void" id="id23" rules="none">
@@ -309,8 +308,10 @@
 <ul class="simple">
 <li>スポットインポートの住所検索処理を改善しました。</li>
 </ul>
-<p>（複数住所が帰ってくるケースにおいて、１件でも正確な住所が帰ってきた場合を許容しました）
-- インポート処理の処理速度を改善しました。</p>
+<p>（複数住所が帰ってくるケースにおいて、１件でも正確な住所が帰ってきた場合を許容しました）</p>
+<ul class="simple">
+<li>インポート処理の処理速度を改善しました。</li>
+</ul>
 </div>
 <div class="section" id="id32">
 <h4>位置情報<a class="headerlink" href="#id32" title="このヘッドラインへのパーマリンク">¶</a></h4>
@@ -371,7 +372,7 @@
       <input type="hidden" name="area" value="default" />
     </form>
     <p class="searchtip" style="font-size: 90%">
-    モジュール、クラス、または関数名を入力してください
+    キーワードを入力して検索ボタンを押してください
     </p>
 </div>
 <script type="text/javascript">$('#searchbox').show(0);</script>

diff --git a/ios.html b/ios.html
@@ -30,8 +30,7 @@
     <script type="text/javascript" src="_static/release-note.js"></script>
     <link rel="top" title="release-note 1.0 ドキュメント" href="index.html" />
     <link rel="next" title="Android" href="android.html" />
-    <link rel="prev" title="管理サイト" href="web.html" />
-    <meta name="viewport" content="width=device-width; initial-scale=1.0">
+    <link rel="prev" title="管理サイト" href="web.html" /> 
   </head>
   <body>
     <div class="related">
@@ -62,7 +61,7 @@
 <div class="section" id="id1">
 <h3>主な変更点<a class="headerlink" href="#id1" title="このヘッドラインへのパーマリンク">¶</a></h3>
 <ul class="simple">
-<li><em class="xref std std-term">ルート自動記録`に :term:`省電量モード</em> を追加しました。</li>
+<li><a class="reference internal" href="glossary.html#term-"><em class="xref std std-term">ルート自動記録</em></a> に <a class="reference internal" href="glossary.html#term-2"><em class="xref std std-term">省電量モード</em></a> を追加しました。</li>
 <li>スポットに <a class="reference internal" href="glossary.html#term-3"><em class="xref std std-term">自社担当者</em></a> 機能を追加しました。</li>
 <li>安定性の向上および、一部の不具合を修正しました。</li>
 </ul>
@@ -70,7 +69,7 @@
 <div class="section" id="id2">
 <h3>改善<a class="headerlink" href="#id2" title="このヘッドラインへのパーマリンク">¶</a></h3>
 <ul class="simple">
-<li>iOS8で <a class="reference internal" href="glossary.html#term-4"><em class="xref std std-term">顧客担当者</em></a> 削除後、予定削除後、報告書経由でスポット作成後の画面遷移時にクラッシュする問題を修正しました。</li>
+<li>iOS8でスポット顧客担当者削除後、予定削除後、報告書経由でスポット作成後の画面遷移時にクラッシュする問題を修正しました。</li>
 <li>iOS8でフォトライブラリから選択する際のデザインを調整しました。</li>
 <li>iPhone6、iPhone6Plusでのレイアウトの不具合を修正しました。</li>
 <li><a class="reference internal" href="glossary.html#term-5"><em class="xref std std-term">マルチアカウント</em></a> 機能使用時に、現在選択しているグループ以外の最終履歴が表示されない不具合を修正しました。</li>
@@ -82,7 +81,7 @@
 <li>スポット詳細でURL項目に”&amp;”が入力できない不具合を修正しました。</li>
 <li>スポット詳細のApp内ブラウザで一部のURLが表示できない不具合を修正しました。</li>
 <li>同期後に広告の表示、非表示が設定されない場合がある不具合を修正しました。</li>
-<li><a class="reference internal" href="glossary.html#term-4"><em class="xref std std-term">顧客担当者</em></a> 、予定担当者がソートされていない箇所を修正しました。</li>
+<li>スポット顧客担当者、予定担当者がソートされていない箇所を修正しました。</li>
 <li>予定詳細の担当者を一般ユーザーでメンバー閲覧権限が無い場合でも参照できるように修正しました。</li>
 </ul>
 </div>
@@ -96,7 +95,7 @@
 <li>バージョンアップ可能な場合に確認のアラートが表示されるようになりました。</li>
 <li>端末設定のAppのバックグラウンド更新の設定状況をサーバに送信するようになりました。（顧客管理以外では使用されません。）</li>
 <li>スポット編集権限の仕様を変更しました。（一般権限ユーザーでもスポット作成権限がある場合に、スポットの編集が可能になります。）</li>
-<li>出勤前ステータスの仕様を変更しました。（出勤前ステータスは1回の打刻制限がありましたが、今回より無制限になります。）</li>
+<li><a class="reference internal" href="glossary.html#term-6"><em class="xref std std-term">出勤前ステータス</em></a> の仕様を変更しました。（ <a class="reference internal" href="glossary.html#term-6"><em class="xref std std-term">出勤前ステータス</em></a> は1回の打刻制限がありましたが、今回より無制限になります。）</li>
 <li>GoogleMapsの予定の線を点線に変更しました。（AppleMapとほぼ同じ表示になります。）</li>
 <li>GoogleMapsSDKを再新化し安定性が向上されました。</li>
 <li><em>互換性をiOSを6.0以降に変更しました。</em></li>
@@ -162,7 +161,7 @@
       <input type="hidden" name="area" value="default" />
     </form>
     <p class="searchtip" style="font-size: 90%">
-    モジュール、クラス、または関数名を入力してください
+    キーワードを入力して検索ボタンを押してください
     </p>
 </div>
 <script type="text/javascript">$('#searchbox').show(0);</script>

diff --git a/glossary.html b/glossary.html
@@ -28,8 +28,7 @@
     <script type="text/javascript" src="_static/jquery.balloon.js"></script>
     <script type="text/javascript" src="_static/jquery.smooth-scroll.min.js"></script>
     <script type="text/javascript" src="_static/release-note.js"></script>
-    <link rel="top" title="release-note 1.0 ドキュメント" href="index.html" />
-    <meta name="viewport" content="width=device-width; initial-scale=1.0">
+    <link rel="top" title="release-note 1.0 ドキュメント" href="index.html" /> 
   </head>
   <body>
     <div class="related">
@@ -72,7 +71,15 @@
 通常は「出勤」しか選択できませんが、ご希望のお客様は弊社サポートまでお問い合わせください。</dd>
 <dt id="term-7">進行順ステータス</dt>
 <dd>特定のステータスを選択した後にしか選択できないステータスのこと。
-ex) 休憩開始 -&gt; 休憩終了</dd>
+例) 休憩開始 -&gt; 休憩終了</dd>
+<dt id="term-8">ユーザーの最新情報表示</dt>
+<dd>位置情報画面で地図に表示されているユーザーの最新情報だけを全員分吹き出しで表示する機能のこと。
+初期設定時はご利用になれません。別途、弊社カスタマーサポートまでご連絡ください。</dd>
+<dt id="term-9">行動種別</dt>
+<dd>ステータスと報告書を関連付ける種別のこと。複数の定義ができ、１つのステータスから複数の報告書を
+作成する場合に利用します。
+例) ステータス[訪問] &#8212; 行動種別[新規訪問] &#8212; 報告書[新規営業報告書]
+例) ステータス[訪問] &#8212; 行動種別[定期訪問] &#8212; 報告書[営業報告書]</dd>
 </dl>
 </div>
 
@@ -94,7 +101,7 @@ ex) 休憩開始 -&gt; 休憩終了</dd>
       <input type="hidden" name="area" value="default" />
     </form>
     <p class="searchtip" style="font-size: 90%">
-    モジュール、クラス、または関数名を入力してください
+    キーワードを入力して検索ボタンを押してください
     </p>
 </div>
 <script type="text/javascript">$('#searchbox').show(0);</script>

diff --git a/android.html b/android.html
@@ -29,8 +29,7 @@
     <script type="text/javascript" src="_static/jquery.smooth-scroll.min.js"></script>
     <script type="text/javascript" src="_static/release-note.js"></script>
     <link rel="top" title="release-note 1.0 ドキュメント" href="index.html" />
-    <link rel="prev" title="iOS" href="ios.html" />
-    <meta name="viewport" content="width=device-width; initial-scale=1.0">
+    <link rel="prev" title="iOS" href="ios.html" /> 
   </head>
   <body>
     <div class="related">
@@ -92,7 +91,7 @@
 <li>メニューに報告閲覧を追加しました。</li>
 <li>スポットに対して自社担当者を追加できるようになりました。</li>
 <li>スポットの作成・編集で住所を入力した場合に位置情報を更新するようになりました。</li>
-<li><a class="reference internal" href="glossary.html#term-"><em class="xref std std-term">ルート自動記録</em></a>  に <a class="reference internal" href="glossary.html#term-2"><em class="xref std std-term">省電量モード</em></a> を追加しました。</li>
+<li><a class="reference internal" href="glossary.html#term-"><em class="xref std std-term">ルート自動記録</em></a> に <a class="reference internal" href="glossary.html#term-2"><em class="xref std std-term">省電量モード</em></a> を追加しました。</li>
 </ul>
 </div>
 <div class="section" id="id4">
@@ -207,7 +206,7 @@
       <input type="hidden" name="area" value="default" />
     </form>
     <p class="searchtip" style="font-size: 90%">
-    モジュール、クラス、または関数名を入力してください
+    キーワードを入力して検索ボタンを押してください
     </p>
 </div>
 <script type="text/javascript">$('#searchbox').show(0);</script>

diff --git a/genindex.html b/genindex.html
@@ -29,8 +29,7 @@
     <script type="text/javascript" src="_static/jquery.balloon.js"></script>
     <script type="text/javascript" src="_static/jquery.smooth-scroll.min.js"></script>
     <script type="text/javascript" src="_static/release-note.js"></script>
-    <link rel="top" title="release-note 1.0 ドキュメント" href="index.html" />
-    <meta name="viewport" content="width=device-width; initial-scale=1.0">
+    <link rel="top" title="release-note 1.0 ドキュメント" href="index.html" /> 
   </head>
   <body>
     <div class="related">
@@ -67,6 +66,10 @@
   </dt>
 
       
+  <dt><a href="glossary.html#term-8"><strong>ユーザーの最新情報表示</strong></a>
+  </dt>
+
+      
   <dt><a href="glossary.html#term-"><strong>ルート自動記録</strong></a>
   </dt>
 
@@ -82,6 +85,10 @@
 
       
   <dt><a href="glossary.html#term-3"><strong>自社担当者</strong></a>
+  </dt>
+
+      
+  <dt><a href="glossary.html#term-9"><strong>行動種別</strong></a>
   </dt>
 
       
@@ -117,7 +124,7 @@
       <input type="hidden" name="area" value="default" />
     </form>
     <p class="searchtip" style="font-size: 90%">
-    モジュール、クラス、または関数名を入力してください
+    キーワードを入力して検索ボタンを押してください
     </p>
 </div>
 <script type="text/javascript">$('#searchbox').show(0);</script>

diff --git a/_static/release-note.js b/_static/release-note.js
@@ -15,24 +15,26 @@ $(document).ready(function(){
 	        var cont_obj = $("<div/>").append(cont_.clone()).append(cont_elm.clone());
 	        $(v).balloon({ 
 	            contents: cont_obj,
-	            position:"top right",
+	            position:"top",
 				css: {
-				    "font-size": "60%",
-				    "opacity": "0.95",
+				    "font-size": "70%",
+				    "opacity": "0.97",
 				    border: 'solid 4px #5baec0',
 				    padding: '10px',
+				    maxWidth: '300px',
 				    fontWeight: 'bold',
-				    lineHeight: '3',
+				    lineHeight: '1',
 				    backgroundColor: '#666',
 				    color: '#fff'
 				} });
 	        $("#_link_").remove();
-        },1000);
+        },500);
         if (location.hash != "") {
-           $.smoothScroll({ 
-               scrollElement:null,
-               scrollTarget:'location.hash'
-           }); 
+           setTimeout(function(){
+               $.smoothScroll({ 
+                   scrollElement:$("body"),
+                   scrollTarget:$(location.hash)
+               });},1000);
         }
        
     });

diff --git a/index.html b/index.html
@@ -29,8 +29,7 @@
     <script type="text/javascript" src="_static/jquery.smooth-scroll.min.js"></script>
     <script type="text/javascript" src="_static/release-note.js"></script>
     <link rel="top" title="release-note 1.0 ドキュメント" href="#" />
-    <link rel="next" title="管理サイト" href="web.html" />
-    <meta name="viewport" content="width=device-width; initial-scale=1.0">
+    <link rel="next" title="管理サイト" href="web.html" /> 
   </head>
   <body>
     <div class="related">
@@ -90,7 +89,7 @@
       <input type="hidden" name="area" value="default" />
     </form>
     <p class="searchtip" style="font-size: 90%">
-    モジュール、クラス、または関数名を入力してください
+    キーワードを入力して検索ボタンを押してください
     </p>
 </div>
 <script type="text/javascript">$('#searchbox').show(0);</script>

diff --git a/_static/release-note.css b/_static/release-note.css
@@ -24,3 +24,9 @@ div.sphinxsidebar {
 div.sphinxsidebarwrapper {
     padding: 0px 5px 0 10px !important;
 }
+div.sphinxsidebar #searchbox input[type="submit"] {
+    width: 50px;
+}
+dt[id^='term'] {
+    font-size: 90%;
+}

diff --git a/search.html b/search.html
@@ -35,8 +35,7 @@
   </script>
   
   <script type="text/javascript" id="searchindexloader"></script>
-  
-    <meta name="viewport" content="width=device-width; initial-scale=1.0">
+   
 
   </head>
   <body>
